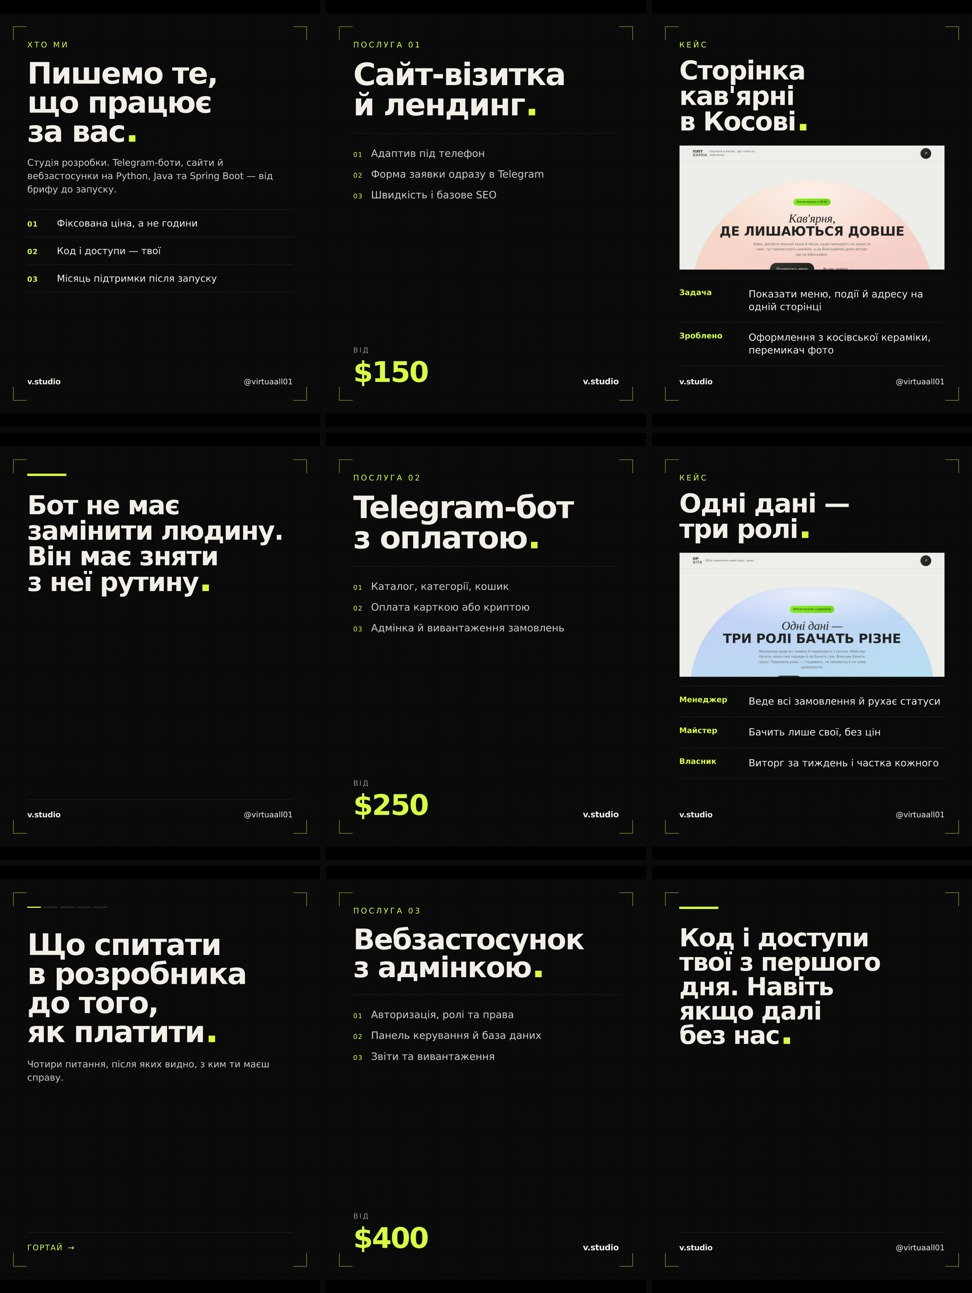
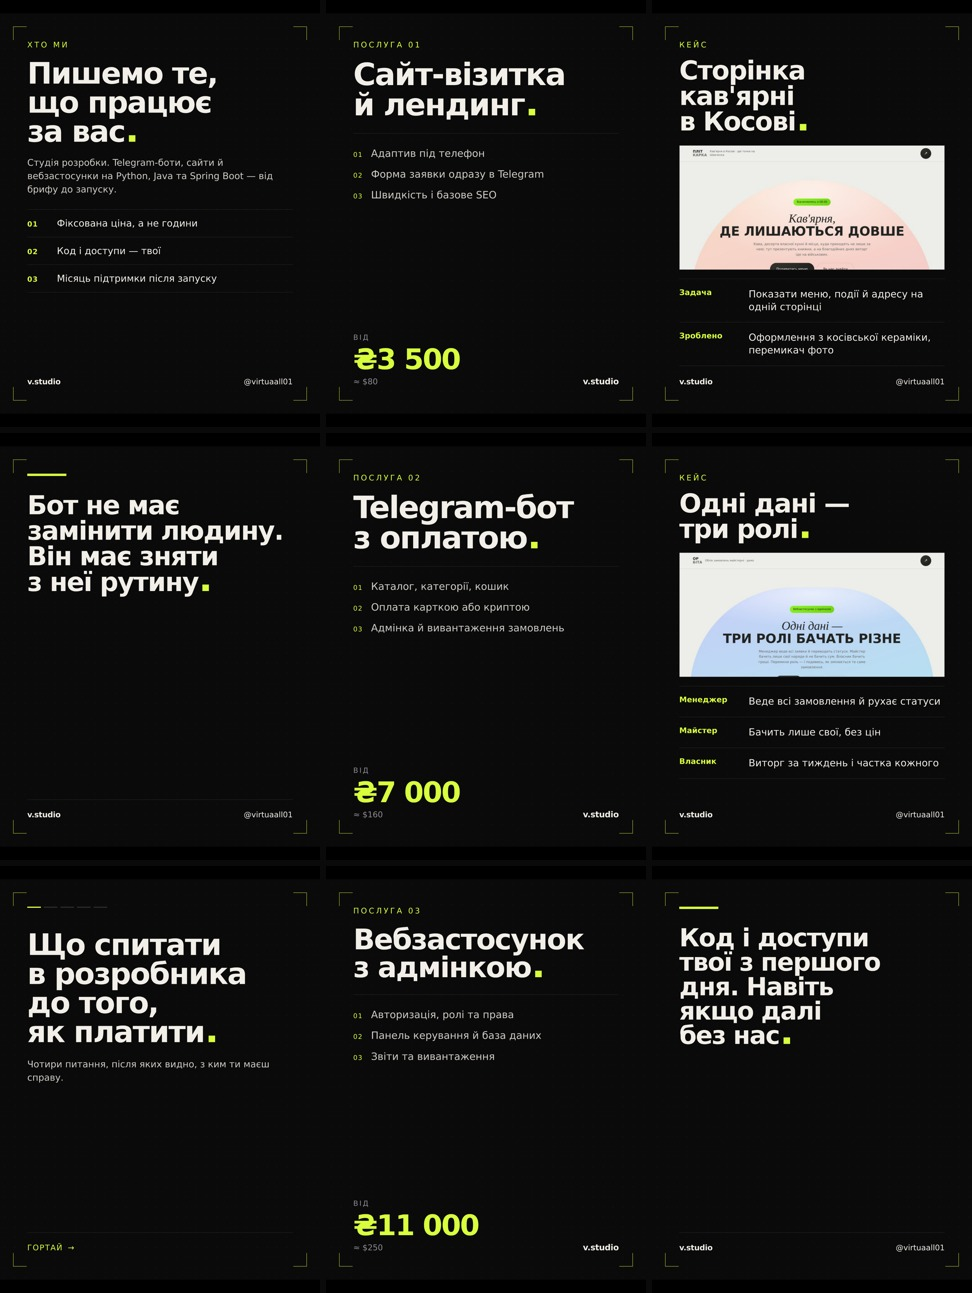
Ціни у двох валютах і нижче — під старт
Гривня стала головною, долар — другим рядком. Замовник в Україні
думає в гривні й не має рахувати курс сам; долар лишається, бо
гривнева ціна за півроку поповзе, а доларова — ні. На англійській
сторінці валюти міняються місцями.

Перерахунок по 45 ₴/$ — рівне число трохи вище офіційного курсу
НБУ (≈ 44,6 у вересні 2026), щоб коливання не з'їдало ціну.

Самі ціни знижено під початок, нижче ринку:

  сайт-візитка       $150 → ₴3 500  (≈ $80)
  Telegram-бот       $250 → ₴7 000  (≈ $160)
  бот без оплати     $120 → ₴3 000  (≈ $70)
  вебзастосунок      $400 → ₴11 000 (≈ $250)
  бекенд і API       $350 → ₴9 000  (≈ $200)
  парсинг            $120 → ₴2 500  (≈ $55)

Орієнтир: лендинг у фрілансерів в Україні йде за 3–10 тис. грн,
у студій — від 12,6 тис.; ботів студії беруть від $800. Нові ціни
стоять по нижньому краю фрілансерської вилки.

price у content.js тепер об'єкт { uah, usd }, а не рядок; замість
'?' у нестандартної задачі стоїть null. Ціна в списку послуг
складається у два поверхи — поруч два числа сперечались і було
незрозуміло, яке з них ціна.

Claude-Session: https://claude.ai/code/session_015etPvoX5NEAr8Wd6gVfCEU

Changed region(s): [[0.3704, 0.5878, 0.4938, 0.6497], [0.3395, 0.9281, 0.4938, 0.9899], [0.3704, 0.2475, 0.463, 0.3094]]

diff --git a/js/content.js b/js/content.js
@@ -88,7 +88,7 @@ window.SITE = (() => {
         uk: 'Приклад: сторінка стоматології. Один екран із цінами, форма запису — заявка одразу падає в Telegram власнику.',
         en: "Example: a page for a dental clinic. One screen with prices and a booking form — each request lands straight in the owner's Telegram."
       },
-      price: '$150+',
+      price: { uah: 3500, usd: 80 },
       uk: {
         name: 'Сайт-візитка та лендинг',
         desc: 'Швидка сторінка під послугу або товар: адаптив, форми заявок, підключення аналітики.',
@@ -107,7 +107,7 @@ window.SITE = (() => {
         uk: 'Приклад: магазин кави. Клієнт обирає обсяг і помел, оплачує карткою в боті, ти бачиш замовлення з адресою в адмінці.',
         en: "Example: a coffee shop. The buyer picks grind and weight, pays by card inside the bot, and you see the order with its address in the admin panel."
       },
-      price: '$250+',
+      price: { uah: 7000, usd: 160 },
       uk: {
         name: 'Telegram-бот з оплатою',
         desc: 'Каталог, кошик, приймання платежів, сповіщення про замовлення та адмінка для керування товарами.',
@@ -125,7 +125,7 @@ window.SITE = (() => {
         uk: 'Приклад: бот стоматології нагадує про візит за добу і збирає відгуки, а нових у чаті зустрічає капча.',
         en: "Example: a clinic bot reminds patients a day before the visit and collects reviews, while a captcha meets newcomers in the chat."
       },
-      price: '$120+',
+      price: { uah: 3000, usd: 70 },
       uk: {
         name: 'Бот: розсилки, заявки, модерація',
         desc: 'Від автовідповідача до міні-CRM із сегментами, відкладеним постингом і антиспамом у чаті.',
@@ -144,7 +144,7 @@ window.SITE = (() => {
         uk: 'Приклад: облік замовлень для майстерні. Менеджер веде заявки, майстер бачить лише свої, власник — виторг за місяць.',
         en: "Example: an order tracker for a workshop. Managers handle requests, each technician sees only their own, the owner sees monthly revenue."
       },
-      price: '$400+',
+      price: { uah: 11000, usd: 250 },
       featured: true,
       uk: {
         name: 'Вебзастосунок з адмінкою',
@@ -163,7 +163,7 @@ window.SITE = (() => {
         uk: 'Приклад: API для мобільного застосунку. Реєстрація, кошик і історія замовлень — фронтенд просто звертається до готових методів.',
         en: "Example: an API for a mobile app. Sign-up, cart and order history — the frontend just calls ready-made endpoints."
       },
-      price: '$350+',
+      price: { uah: 9000, usd: 200 },
       uk: {
         name: 'Бекенд і API',
         desc: 'Серверна частина на Java зі Spring Boot або на Python: REST API, база, інтеграції із зовнішніми сервісами.',
@@ -181,7 +181,7 @@ window.SITE = (() => {
         uk: 'Приклад: стеження за цінами конкурентів. Щоранку збирає прайси у таблицю і пише в Telegram, якщо щось подешевшало.',
         en: "Example: competitor price tracking. Every morning it collects prices into a spreadsheet and pings Telegram when something drops."
       },
-      price: '$120+',
+      price: { uah: 2500, usd: 55 },
       uk: {
         name: 'Парсинг і автоматизація',
         desc: 'Збирає дані із сайтів, стежить за змінами і переносить рутину у скрипти за розкладом.',
@@ -199,7 +199,7 @@ window.SITE = (() => {
         uk: 'Приклад: старий сайт на чужому коді гальмував і падав. Розібрали, полагодили, перенесли на новий сервер — сторінки відкриваються вчетверо швидше.',
         en: "Example: an inherited site kept stalling and crashing. We dug in, fixed it and moved it to a new server — pages now open four times faster."
       },
-      price: '?',
+      price: null,
       uk: {
         name: 'Нестандартне завдання',
         desc: 'Доопрацювання чужого коду, інтеграції між сервісами, перенесення на новий сервер, прискорення повільного проєкту.',

diff --git a/brand/instagram/kit.html b/brand/instagram/kit.html
@@ -177,6 +177,9 @@ body {
   letter-spacing: -0.04em;
   color: var(--acid);
 }
+/* друга валюта — дрібним рядком під головною, а не поруч:
+   поруч два числа сперечаються, і не видно, яке з них ціна */
+.price-alt { font-size: 27px; color: #8d8d94; margin-top: 12px; }
 
 /* =========================================================
    3b. Хто ми
@@ -429,7 +432,8 @@ body {
       <div style="margin-top:auto;display:flex;justify-content:space-between;align-items:flex-end;gap:24px">
         <div>
           <p style="font-size:24px;letter-spacing:.18em;text-transform:uppercase;color:#8d8d94;margin-bottom:12px">Від</p>
-          <p class="price">$250</p>
+          <p class="price">₴7 000</p>
+          <p class="price-alt">≈ $160</p>
         </div>
         <p style="font-size:28px;color:#f2efe8"><span class="wordmark">v.studio</span></p>
       </div>
@@ -588,7 +592,8 @@ body {
         <div class="price-row">
           <div>
             <p class="price-cap">Від</p>
-            <p class="price">$250</p>
+            <p class="price">₴7 000</p>
+          <p class="price-alt">≈ $160</p>
           </div>
           <p style="font-size:28px"><span class="wordmark">v.studio</span></p>
         </div>
@@ -611,7 +616,8 @@ body {
         <div class="price-row">
           <div>
             <p class="price-cap">Від</p>
-            <p class="price">$150</p>
+            <p class="price">₴3 500</p>
+          <p class="price-alt">≈ $80</p>
           </div>
           <p style="font-size:28px"><span class="wordmark">v.studio</span></p>
         </div>
@@ -636,7 +642,8 @@ body {
         <div class="price-row">
           <div>
             <p class="price-cap">Від</p>
-            <p class="price">$400</p>
+            <p class="price">₴11 000</p>
+          <p class="price-alt">≈ $250</p>
           </div>
           <p style="font-size:28px"><span class="wordmark">v.studio</span></p>
         </div>
@@ -840,7 +847,8 @@ body {
       <div style="margin-top:auto;display:flex;justify-content:space-between;align-items:flex-end;gap:24px">
         <div>
           <p class="price-cap">Від</p>
-          <p class="price">$150</p>
+          <p class="price">₴3 500</p>
+          <p class="price-alt">≈ $80</p>
         </div>
         <p style="font-size:28px;color:#f2efe8"><span class="wordmark">v.studio</span></p>
       </div>
@@ -865,7 +873,8 @@ body {
       <div style="margin-top:auto;display:flex;justify-content:space-between;align-items:flex-end;gap:24px">
         <div>
           <p class="price-cap">Від</p>
-          <p class="price">$400</p>
+          <p class="price">₴11 000</p>
+          <p class="price-alt">≈ $250</p>
         </div>
         <p style="font-size:28px;color:#f2efe8"><span class="wordmark">v.studio</span></p>
       </div>
@@ -890,7 +899,8 @@ body {
       <div style="margin-top:auto;display:flex;justify-content:space-between;align-items:flex-end;gap:24px">
         <div>
           <p class="price-cap">Від</p>
-          <p class="price">$350</p>
+          <p class="price">₴9 000</p>
+          <p class="price-alt">≈ $200</p>
         </div>
         <p style="font-size:28px;color:#f2efe8"><span class="wordmark">v.studio</span></p>
       </div>

diff --git a/js/app.js b/js/app.js
@@ -193,22 +193,30 @@
 
     SERVICES.forEach(service => {
       const copy = service[lang] || service.uk;
-      const isCustom = service.price === '?';
-
       const name = el('h3', { class: 'price-name' }, copy.name);
       if (service.featured) {
         name.append(el('span', { class: 'price-featured', text: t('services.featured') }));
       }
 
-      const priceText = isCustom
-        ? t('services.custom')
-        : `${t('services.from')} ${service.price.replace('+', '')}`;
+      // Ціна живе у двох валютах. Попереду та, якою зараз розмовляє
+      // сторінка: гривня для своїх, долар для решти.
+      const money = el('div', { class: 'price-money' });
+      if (service.price) {
+        const uah = '₴' + service.price.uah.toLocaleString('uk-UA');
+        const usd = '$' + service.price.usd;
+        money.append(
+          el('span', { class: 'price-value', text: `${t('services.from')} ${lang === 'uk' ? uah : usd}` }),
+          el('span', { class: 'price-alt', text: `≈ ${lang === 'uk' ? usd : uah}` })
+        );
+      } else {
+        money.append(el('span', { class: 'price-value is-quote', text: t('services.custom') }));
+      }
 
       const inner = el('div', { class: 'price-inner' },
         name,
         el('p', { class: 'price-desc', text: copy.desc }),
         el('div', { class: 'price-right' },
-          el('span', { class: 'price-value', text: priceText }),
+          money,
           el('a', {
             class: 'price-cta',
             href: tgLink(t('services.orderText').replace('{name}', copy.name)),

diff --git a/css/style.css b/css/style.css
@@ -571,6 +571,9 @@ body > *:not(#grid-canvas) { position: relative; z-index: 1; }
 .price-row:focus-within .price-desc { color: color-mix(in srgb, var(--acid-ink) 72%, transparent); }
 
 .price-right { display: flex; align-items: center; gap: 22px; }
+/* дві валюти одна під одною: гривня великою, друга дрібним рядком —
+   поруч вони не влізали в колонку й ламали ряд */
+.price-money { display: grid; justify-items: end; gap: 2px; }
 .price-value {
   font-family: var(--f-display);
   font-weight: 800;
@@ -578,6 +581,15 @@ body > *:not(#grid-canvas) { position: relative; z-index: 1; }
   letter-spacing: -0.03em;
   white-space: nowrap;
 }
+.price-value.is-quote { font-size: clamp(0.95rem, 1.5vw, 1.15rem); font-weight: 600; }
+.price-alt {
+  font-size: 0.78rem;
+  color: var(--muted);
+  white-space: nowrap;
+  transition: color 0.4s var(--ease);
+}
+.price-row:hover .price-alt,
+.price-row:focus-within .price-alt { color: color-mix(in srgb, var(--acid-ink) 62%, transparent); }
 .price-cta {
   display: inline-flex;
   align-items: center;
@@ -952,6 +964,7 @@ body > *:not(#grid-canvas) { position: relative; z-index: 1; }
     padding: 24px 4px 6px;
   }
   .price-right { justify-content: space-between; width: 100%; }
+  .price-money { justify-items: start; }
   .price-cta { opacity: 1; transform: none; }
   .step { grid-template-columns: 56px minmax(0, 1fr); gap: 16px; }
   .repo { grid-template-columns: 1fr; gap: 10px; }

diff --git a/brand/instagram/README.md b/brand/instagram/README.md
@@ -99,9 +99,15 @@ CHROME_PATH=/шлях/до/chrome FFMPEG_PATH=/шлях/до/ffmpeg \
 ## Про тексти
 
 У макетах стоять реальні послуги й ціни з `js/content.js`: сайт від
-$150, бот з оплатою від $250, бекенд від $350, вебзастосунок від $400.
-Міняються ціни на сайті — міняй і тут, інакше профіль почне обіцяти
-інше.
+₴3 500, бот з оплатою від ₴7 000, бекенд від ₴9 000, вебзастосунок
+від ₴11 000. Міняються ціни на сайті — міняй і тут, інакше профіль
+почне обіцяти інше.
+
+Валют дві. Головна — гривня: замовник в Україні думає в гривні й
+не має рахувати курс сам. Долар іде другим рядком дрібним, бо
+гривнева ціна за півроку поповзе, а доларова — ні. Перерахунок
+беремо по 45 ₴/$ — рівне число трохи вище офіційного курсу НБУ
+(≈ 44,6 у вересні 2026), щоб коливання не з'їдало ціну.
 
 Три кейси — це справжні роботи, які відкриваються за посиланням, і на
 сторіс стоять їхні реальні знімки з `img/cases/`. Термінів у макетах
